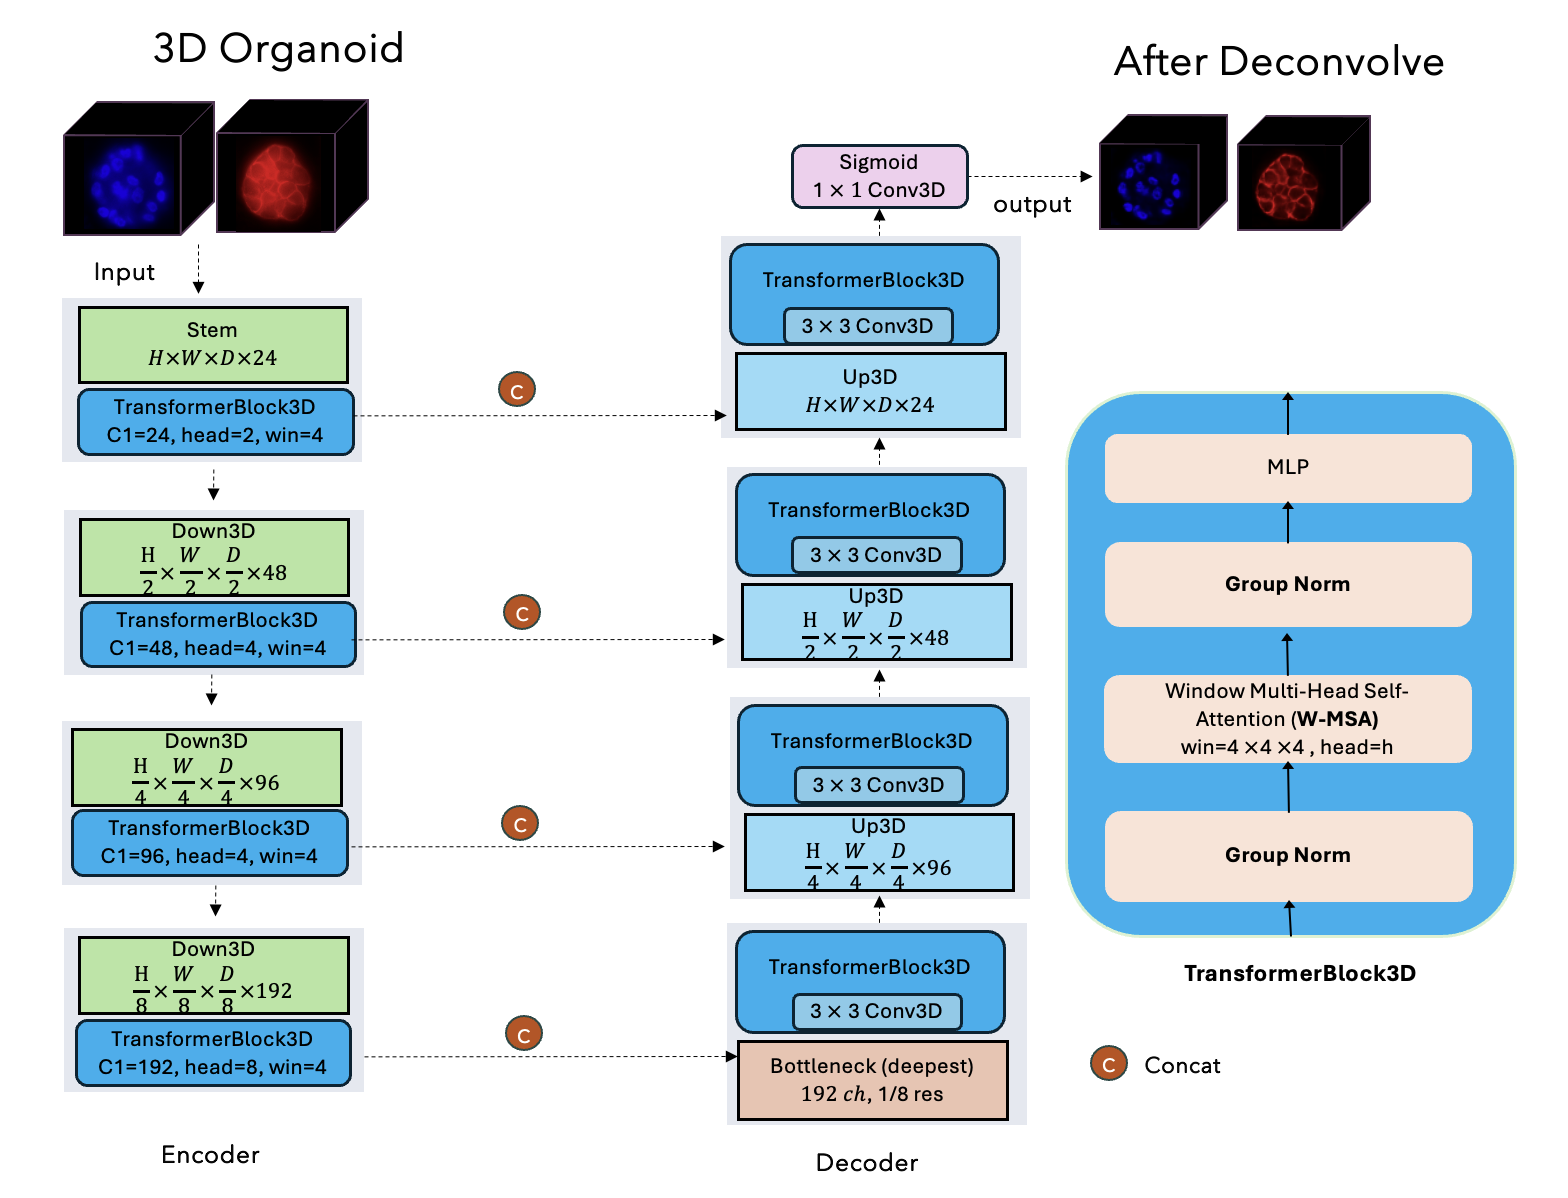
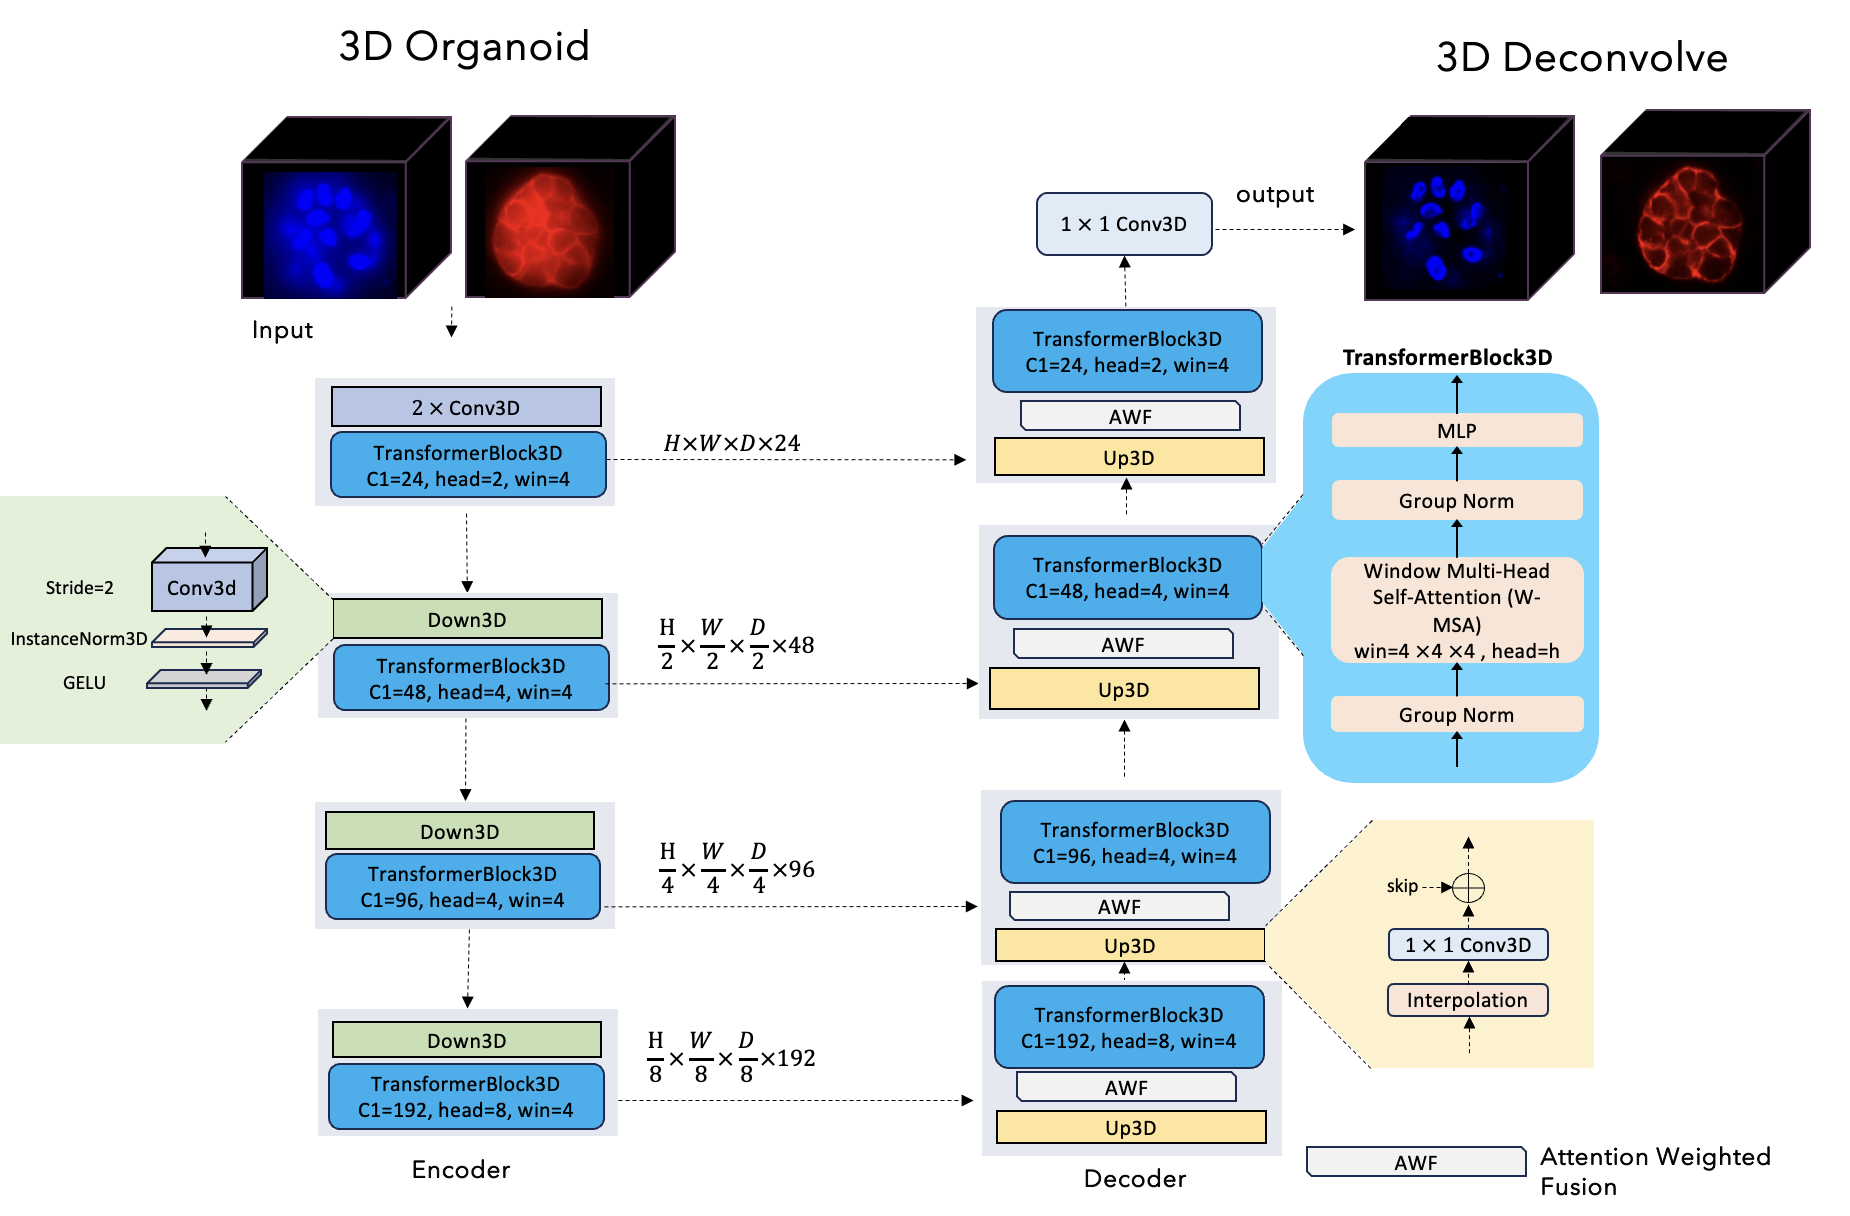
added

diff --git a/README.md b/README.md
@@ -2,7 +2,7 @@
 
 Deconv3D is a lightweight 3D deconvolution model that restores blurred and noisy microscopy volumes by combining local feature extraction from 3D convolutions with global context modeling from windowed 3D self-attention. A Conv–Transformer encoder captures multiscale representations, while a skip-connected decoder refines and upsamples them to produce a clean, high-fidelity volume.
 
-<!-- ![architecture of model](./assets/model.png) -->
+![architecture of model](./assets/model.png)
 # **Live Website**
 
 https://www.engr.unr.edu/deconv3d/
@@ -125,11 +125,11 @@ Outputs: - Restored 3D volume
 ------------------------------------------------------------------------
 
 ------------------------------------------------------------------------
-<!-- ##  **Example**
+##  **Example**
 
-The figure compares Deconv3D performance across microscopy systems with varying optical quality. Zeiss Oil (left) represents high-resolution imaging, while Zeiss Water and Evos FL90 (middle and right) are lower-resolution modalities. In all cases, Deconv3D restores fine structural details, enhances contrast, and reduces blur—demonstrating strong robustness and generalization across high and low-resolution microscopy setups.
+Qualitative cross-microscope deconvolution results showing DAPI (top) and filamentous markers (bottom) from Zeiss-1, Zeiss-2, and Olympus. Raw inputs (left) and restored outputs (right) illustrate effective blur suppression, removal of out-of-focus light, and strong cross-platform generalization.
 
-![model results](./assets/example.png) -->
+![model results](./assets/example.png)
 
 
 <!-- ## **Citation**
